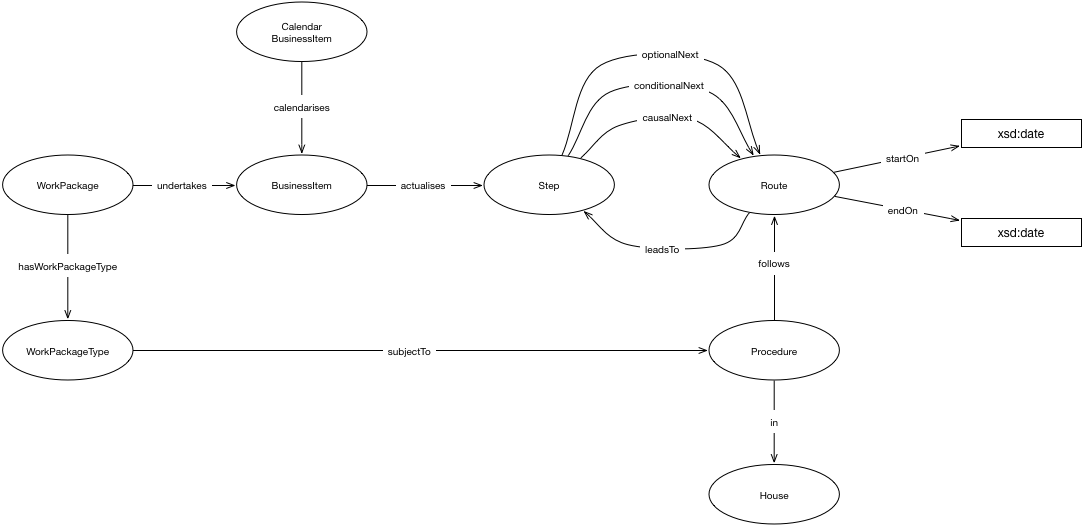
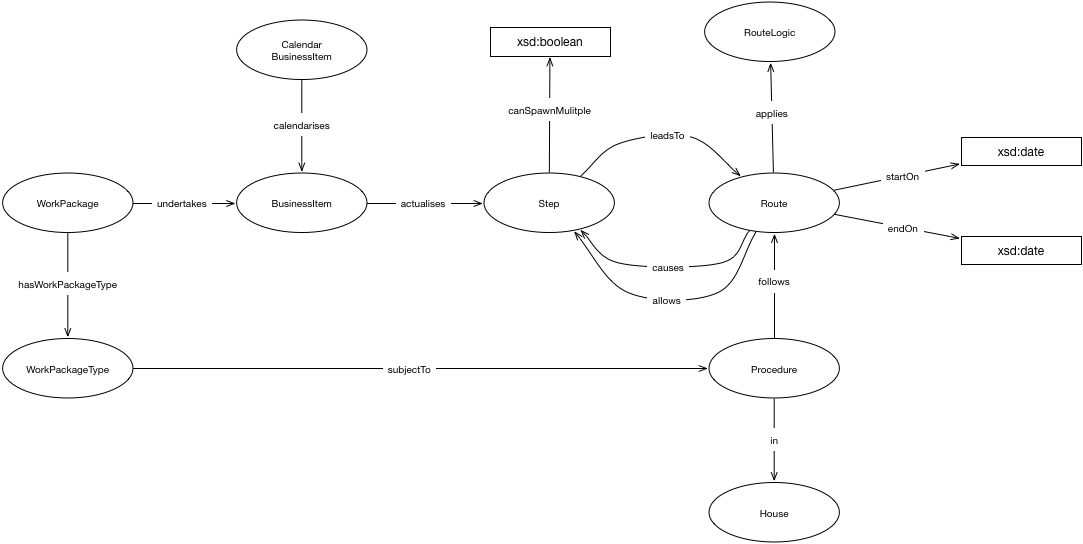
updated step <> route predicates, added logic class, added can spawn multiple property

diff --git a/procedure/procedure-ontology.html b/procedure/procedure-ontology.html
@@ -10,6 +10,9 @@
 
 
 
+
+
+
 		<link href="https://ukparliament.github.io/ontologies/assets/css.css" rel="stylesheet" type="text/css" />
 	</head>
 		<body>
@@ -35,6 +38,19 @@
 
 
 
-<div id="classes"><h2>Classes</h2><ul class="hlist"><li><a href="#d4e232" title="http://parliament.uk/ontologies/procedure/BusinessItem">BusinessItem</a></li><li><a href="#d4e243" title="http://parliament.uk/ontologies/procedure/CalendarBusinessItem">CalendarBusinessItem</a></li><li><a href="#d4e255" title="http://parliament.uk/ontologies/procedure/House">House</a></li><li><a href="#d4e266" title="http://parliament.uk/ontologies/procedure/Procedure">Procedure</a></li><li><a href="#d4e277" title="http://parliament.uk/ontologies/procedure/Route">Route</a></li><li><a href="#d4e289" title="http://parliament.uk/ontologies/procedure/Step">Step</a></li><li><a href="#d4e300" title="http://parliament.uk/ontologies/procedure/WorkPackage">WorkPackage</a></li><li><a href="#d4e311" title="http://parliament.uk/ontologies/procedure/WorkPackageType">WorkPackageType</a></li></ul><div id="d4e232" class="entity"><a name="http://parliament.uk/ontologies/procedure/BusinessItem"></a><h3>BusinessItem<sup title="class" class="type-c">c</sup><span class="backlink"> back to <a href="#toc">ToC</a> or <a href="#classes">Class ToC</a></span></h3><p><strong>IRI:</strong> http://parliament.uk/ontologies/procedure/BusinessItem</p><div class="comment"><span class="markdown">An item of parliamentary business.</span></div><dl class="description"><dt>is in domain of</dt><dd><a href="#d4e29" title="http://parliament.uk/ontologies/procedure/actualises">actualises</a><sup title="object property" class="type-op">op</sup></dd><dt>is in range of</dt><dd><a href="#d4e44" title="http://parliament.uk/ontologies/procedure/calendarises">calendarises</a><sup title="object property" class="type-op">op</sup>, <a href="#d4e182" title="http://parliament.uk/ontologies/procedure/undertakes">undertakes</a><sup title="object property" class="type-op">op</sup></dd></dl></div><div id="d4e243" class="entity"><a name="http://parliament.uk/ontologies/procedure/CalendarBusinessItem"></a><h3>CalendarBusinessItem<sup title="class" class="type-c">c</sup><span class="backlink"> back to <a href="#toc">ToC</a> or <a href="#classes">Class ToC</a></span></h3><p><strong>IRI:</strong> http://parliament.uk/ontologies/procedure/CalendarBusinessItem</p><div class="comment"><span class="markdown">An item of parliamentary business which has been timetabled onto a calendar.</span></div><dl class="description"><dt>is in domain of</dt><dd><a href="#d4e44" title="http://parliament.uk/ontologies/procedure/calendarises">calendarises</a><sup title="object property" class="type-op">op</sup></dd></dl></div><div id="d4e255" class="entity"><a name="http://parliament.uk/ontologies/procedure/House"></a><h3>House<sup title="class" class="type-c">c</sup><span class="backlink"> back to <a href="#toc">ToC</a> or <a href="#classes">Class ToC</a></span></h3><p><strong>IRI:</strong> http://parliament.uk/ontologies/procedure/House</p><div class="comment"><span class="markdown">A parliamentary House e.g. the House of Lords.</span></div><dl class="description"><dt>is in range of</dt><dd><a href="#d4e121" title="http://parliament.uk/ontologies/procedure/in">in</a><sup title="object property" class="type-op">op</sup></dd></dl></div><div id="d4e266" class="entity"><a name="http://parliament.uk/ontologies/procedure/Procedure"></a><h3>Procedure<sup title="class" class="type-c">c</sup><span class="backlink"> back to <a href="#toc">ToC</a> or <a href="#classes">Class ToC</a></span></h3><p><strong>IRI:</strong> http://parliament.uk/ontologies/procedure/Procedure</p><div class="comment"><span class="markdown">A parliamentary procedure in a particular House. Examples might be the passage of an affirmative SI in the House of Commons, the passage of a public bill in the House of Lords etc.</span></div><dl class="description"><dt>is in domain of</dt><dd><a href="#d4e90" title="http://parliament.uk/ontologies/procedure/follows">follows</a><sup title="object property" class="type-op">op</sup>, <a href="#d4e121" title="http://parliament.uk/ontologies/procedure/in">in</a><sup title="object property" class="type-op">op</sup></dd><dt>is in range of</dt><dd><a href="#d4e167" title="http://parliament.uk/ontologies/procedure/subjectTo">subjectTo</a><sup title="object property" class="type-op">op</sup></dd></dl></div><div id="d4e277" class="entity"><a name="http://parliament.uk/ontologies/procedure/Route"></a><h3>Route<sup title="class" class="type-c">c</sup><span class="backlink"> back to <a href="#toc">ToC</a> or <a href="#classes">Class ToC</a></span></h3><p><strong>IRI:</strong> http://parliament.uk/ontologies/procedure/Route</p><div class="comment"><span class="markdown">Ties a preceding step to a following step depending on applicable procedure, point in time and conditional inputs from the preceding step.</span></div><dl class="description"><dt>is in domain of</dt><dd><a href="#d4e199" title="http://parliament.uk/ontologies/procedure/endOn">endOn</a><sup title="data property" class="type-dp">dp</sup>, <a href="#d4e136" title="http://parliament.uk/ontologies/procedure/leadsTo">leadsTo</a><sup title="object property" class="type-op">op</sup>, <a href="#d4e215" title="http://parliament.uk/ontologies/procedure/startOn">startOn</a><sup title="data property" class="type-dp">dp</sup></dd><dt>is in range of</dt><dd><a href="#d4e59" title="http://parliament.uk/ontologies/procedure/causalNext">causalNext</a><sup title="object property" class="type-op">op</sup>, <a href="#d4e75" title="http://parliament.uk/ontologies/procedure/conditionalNext">conditionalNext</a><sup title="object property" class="type-op">op</sup>, <a href="#d4e90" title="http://parliament.uk/ontologies/procedure/follows">follows</a><sup title="object property" class="type-op">op</sup>, <a href="#d4e151" title="http://parliament.uk/ontologies/procedure/optionalNext">optionalNext</a><sup title="object property" class="type-op">op</sup></dd></dl></div><div id="d4e289" class="entity"><a name="http://parliament.uk/ontologies/procedure/Step"></a><h3>Step<sup title="class" class="type-c">c</sup><span class="backlink"> back to <a href="#toc">ToC</a> or <a href="#classes">Class ToC</a></span></h3><p><strong>IRI:</strong> http://parliament.uk/ontologies/procedure/Step</p><div class="comment"><span class="markdown">A step in a process. May occur in one or many routes.</span></div><dl class="description"><dt>is in domain of</dt><dd><a href="#d4e59" title="http://parliament.uk/ontologies/procedure/causalNext">causalNext</a><sup title="object property" class="type-op">op</sup>, <a href="#d4e75" title="http://parliament.uk/ontologies/procedure/conditionalNext">conditionalNext</a><sup title="object property" class="type-op">op</sup>, <a href="#d4e151" title="http://parliament.uk/ontologies/procedure/optionalNext">optionalNext</a><sup title="object property" class="type-op">op</sup></dd><dt>is in range of</dt><dd><a href="#d4e29" title="http://parliament.uk/ontologies/procedure/actualises">actualises</a><sup title="object property" class="type-op">op</sup>, <a href="#d4e136" title="http://parliament.uk/ontologies/procedure/leadsTo">leadsTo</a><sup title="object property" class="type-op">op</sup></dd></dl></div><div id="d4e300" class="entity"><a name="http://parliament.uk/ontologies/procedure/WorkPackage"></a><h3>WorkPackage<sup title="class" class="type-c">c</sup><span class="backlink"> back to <a href="#toc">ToC</a> or <a href="#classes">Class ToC</a></span></h3><p><strong>IRI:</strong> http://parliament.uk/ontologies/procedure/WorkPackage</p><div class="comment"><span class="markdown">A package of work involving many individual business items. Might be the passage of a specific statutory instrument or the passage of a specific public bill etc.</span></div><dl class="description"><dt>is in domain of</dt><dd><a href="#d4e105" title="http://parliament.uk/ontologies/procedure/hasWorkPackageType">hasWorkPackageType</a><sup title="object property" class="type-op">op</sup>, <a href="#d4e182" title="http://parliament.uk/ontologies/procedure/undertakes">undertakes</a><sup title="object property" class="type-op">op</sup></dd></dl></div><div id="d4e311" class="entity"><a name="http://parliament.uk/ontologies/procedure/WorkPackageType"></a><h3>WorkPackageType<sup title="class" class="type-c">c</sup><span class="backlink"> back to <a href="#toc">ToC</a> or <a href="#classes">Class ToC</a></span></h3><p><strong>IRI:</strong> http://parliament.uk/ontologies/procedure/WorkPackageType</p><div class="comment"><span class="markdown">A type of a work package. Might be the passage of affirmative statutory instruments or the passage of public bills etc.</span></div><dl class="description"><dt>is in domain of</dt><dd><a href="#d4e167" title="http://parliament.uk/ontologies/procedure/subjectTo">subjectTo</a><sup title="object property" class="type-op">op</sup></dd><dt>is in range of</dt><dd><a href="#d4e105" title="http://parliament.uk/ontologies/procedure/hasWorkPackageType">hasWorkPackageType</a><sup title="object property" class="type-op">op</sup></dd></dl></div></div><div id="objectproperties"><h2>Object Properties</h2><ul class="hlist"><li><a href="#d4e29" title="http://parliament.uk/ontologies/procedure/actualises">actualises</a></li><li><a href="#d4e44" title="http://parliament.uk/ontologies/procedure/calendarises">calendarises</a></li><li><a href="#d4e59" title="http://parliament.uk/ontologies/procedure/causalNext">causalNext</a></li><li><a href="#d4e75" title="http://parliament.uk/ontologies/procedure/conditionalNext">conditionalNext</a></li><li><a href="#d4e90" title="http://parliament.uk/ontologies/procedure/follows">follows</a></li><li><a href="#d4e105" title="http://parliament.uk/ontologies/procedure/hasWorkPackageType">hasWorkPackageType</a></li><li><a href="#d4e121" title="http://parliament.uk/ontologies/procedure/in">in</a></li><li><a href="#d4e136" title="http://parliament.uk/ontologies/procedure/leadsTo">leadsTo</a></li><li><a href="#d4e151" title="http://parliament.uk/ontologies/procedure/optionalNext">optionalNext</a></li><li><a href="#d4e167" title="http://parliament.uk/ontologies/procedure/subjectTo">subjectTo</a></li><li><a href="#d4e182" title="http://parliament.uk/ontologies/procedure/undertakes">undertakes</a></li></ul><div id="d4e29" class="entity"><a name="http://parliament.uk/ontologies/procedure/actualises"></a><h3>actualises<sup title="object property" class="type-op">op</sup><span class="backlink"> back to <a href="#toc">ToC</a> or <a href="#objectproperties">Object Property ToC</a></span></h3><p><strong>IRI:</strong> http://parliament.uk/ontologies/procedure/actualises</p><div class="comment"><span class="markdown">Relates a business item to a step in a procedure.</span></div><div class="description"><dl><dt>has domain</dt><dd><a href="#d4e232" title="http://parliament.uk/ontologies/procedure/BusinessItem">BusinessItem</a><sup title="class" class="type-c">c</sup></dd><dt>has range</dt><dd><a href="#d4e289" title="http://parliament.uk/ontologies/procedure/Step">Step</a><sup title="class" class="type-c">c</sup></dd></dl></div></div><div id="d4e44" class="entity"><a name="http://parliament.uk/ontologies/procedure/calendarises"></a><h3>calendarises<sup title="object property" class="type-op">op</sup><span class="backlink"> back to <a href="#toc">ToC</a> or <a href="#objectproperties">Object Property ToC</a></span></h3><p><strong>IRI:</strong> http://parliament.uk/ontologies/procedure/calendarises</p><div class="comment"><span class="markdown">Relates a calender business item to a business item.</span></div><div class="description"><dl><dt>has domain</dt><dd><a href="#d4e243" title="http://parliament.uk/ontologies/procedure/CalendarBusinessItem">CalendarBusinessItem</a><sup title="class" class="type-c">c</sup></dd><dt>has range</dt><dd><a href="#d4e232" title="http://parliament.uk/ontologies/procedure/BusinessItem">BusinessItem</a><sup title="class" class="type-c">c</sup></dd></dl></div></div><div id="d4e59" class="entity"><a name="http://parliament.uk/ontologies/procedure/causalNext"></a><h3>causalNext<sup title="object property" class="type-op">op</sup><span class="backlink"> back to <a href="#toc">ToC</a> or <a href="#objectproperties">Object Property ToC</a></span></h3><p><strong>IRI:</strong> http://parliament.uk/ontologies/procedure/causalNext</p><div class="comment"><span class="markdown">Relates a preceding step to a route where completion of the step directly causes the route to trigger the next step.</span></div><div class="description"><dl><dt>has domain</dt><dd><a href="#d4e289" title="http://parliament.uk/ontologies/procedure/Step">Step</a><sup title="class" class="type-c">c</sup></dd><dt>has range</dt><dd><a href="#d4e277" title="http://parliament.uk/ontologies/procedure/Route">Route</a><sup title="class" class="type-c">c</sup></dd></dl></div></div><div id="d4e75" class="entity"><a name="http://parliament.uk/ontologies/procedure/conditionalNext"></a><h3>conditionalNext<sup title="object property" class="type-op">op</sup><span class="backlink"> back to <a href="#toc">ToC</a> or <a href="#objectproperties">Object Property ToC</a></span></h3><p><strong>IRI:</strong> http://parliament.uk/ontologies/procedure/conditionalNext</p><div class="comment"><span class="markdown">Relates a preceding step to a route where completion of all steps marked conditional must happen before the route can trigger the next step.</span></div><div class="description"><dl><dt>has domain</dt><dd><a href="#d4e289" title="http://parliament.uk/ontologies/procedure/Step">Step</a><sup title="class" class="type-c">c</sup></dd><dt>has range</dt><dd><a href="#d4e277" title="http://parliament.uk/ontologies/procedure/Route">Route</a><sup title="class" class="type-c">c</sup></dd></dl></div></div><div id="d4e90" class="entity"><a name="http://parliament.uk/ontologies/procedure/follows"></a><h3>follows<sup title="object property" class="type-op">op</sup><span class="backlink"> back to <a href="#toc">ToC</a> or <a href="#objectproperties">Object Property ToC</a></span></h3><p><strong>IRI:</strong> http://parliament.uk/ontologies/procedure/follows</p><div class="comment"><span class="markdown">Relates a procedure to a route.</span></div><div class="description"><dl><dt>has domain</dt><dd><a href="#d4e266" title="http://parliament.uk/ontologies/procedure/Procedure">Procedure</a><sup title="class" class="type-c">c</sup></dd><dt>has range</dt><dd><a href="#d4e277" title="http://parliament.uk/ontologies/procedure/Route">Route</a><sup title="class" class="type-c">c</sup></dd></dl></div></div><div id="d4e105" class="entity"><a name="http://parliament.uk/ontologies/procedure/hasWorkPackageType"></a><h3>hasWorkPackageType<sup title="object property" class="type-op">op</sup><span class="backlink"> back to <a href="#toc">ToC</a> or <a href="#objectproperties">Object Property ToC</a></span></h3><p><strong>IRI:</strong> http://parliament.uk/ontologies/procedure/hasWorkPackageType</p><div class="comment"><span class="markdown">Relates a work package to the type of work being undertaken.</span></div><div class="description"><dl><dt>has domain</dt><dd><a href="#d4e300" title="http://parliament.uk/ontologies/procedure/WorkPackage">WorkPackage</a><sup title="class" class="type-c">c</sup></dd><dt>has range</dt><dd><a href="#d4e311" title="http://parliament.uk/ontologies/procedure/WorkPackageType">WorkPackageType</a><sup title="class" class="type-c">c</sup></dd></dl></div></div><div id="d4e121" class="entity"><a name="http://parliament.uk/ontologies/procedure/in"></a><h3>in<sup title="object property" class="type-op">op</sup><span class="backlink"> back to <a href="#toc">ToC</a> or <a href="#objectproperties">Object Property ToC</a></span></h3><p><strong>IRI:</strong> http://parliament.uk/ontologies/procedure/in</p><div class="comment"><span class="markdown">Relates a procedure to a House.</span></div><div class="description"><dl><dt>has domain</dt><dd><a href="#d4e266" title="http://parliament.uk/ontologies/procedure/Procedure">Procedure</a><sup title="class" class="type-c">c</sup></dd><dt>has range</dt><dd><a href="#d4e255" title="http://parliament.uk/ontologies/procedure/House">House</a><sup title="class" class="type-c">c</sup></dd></dl></div></div><div id="d4e136" class="entity"><a name="http://parliament.uk/ontologies/procedure/leadsTo"></a><h3>leadsTo<sup title="object property" class="type-op">op</sup><span class="backlink"> back to <a href="#toc">ToC</a> or <a href="#objectproperties">Object Property ToC</a></span></h3><p><strong>IRI:</strong> http://parliament.uk/ontologies/procedure/leadsTo</p><div class="comment"><span class="markdown">Relates a route to a following step.</span></div><div class="description"><dl><dt>has domain</dt><dd><a href="#d4e277" title="http://parliament.uk/ontologies/procedure/Route">Route</a><sup title="class" class="type-c">c</sup></dd><dt>has range</dt><dd><a href="#d4e289" title="http://parliament.uk/ontologies/procedure/Step">Step</a><sup title="class" class="type-c">c</sup></dd></dl></div></div><div id="d4e151" class="entity"><a name="http://parliament.uk/ontologies/procedure/optionalNext"></a><h3>optionalNext<sup title="object property" class="type-op">op</sup><span class="backlink"> back to <a href="#toc">ToC</a> or <a href="#objectproperties">Object Property ToC</a></span></h3><p><strong>IRI:</strong> http://parliament.uk/ontologies/procedure/optionalNext</p><div class="comment"><span class="markdown">Relates a preceding step to a route where completion of the step allows the next step to happen, but does not cause it to happen.</span></div><div class="description"><dl><dt>has domain</dt><dd><a href="#d4e289" title="http://parliament.uk/ontologies/procedure/Step">Step</a><sup title="class" class="type-c">c</sup></dd><dt>has range</dt><dd><a href="#d4e277" title="http://parliament.uk/ontologies/procedure/Route">Route</a><sup title="class" class="type-c">c</sup></dd></dl></div></div><div id="d4e167" class="entity"><a name="http://parliament.uk/ontologies/procedure/subjectTo"></a><h3>subjectTo<sup title="object property" class="type-op">op</sup><span class="backlink"> back to <a href="#toc">ToC</a> or <a href="#objectproperties">Object Property ToC</a></span></h3><p><strong>IRI:</strong> http://parliament.uk/ontologies/procedure/subjectTo</p><div class="comment"><span class="markdown">Relates a work package type to the procedure it is subject to.</span></div><div class="description"><dl><dt>has domain</dt><dd><a href="#d4e311" title="http://parliament.uk/ontologies/procedure/WorkPackageType">WorkPackageType</a><sup title="class" class="type-c">c</sup></dd><dt>has range</dt><dd><a href="#d4e266" title="http://parliament.uk/ontologies/procedure/Procedure">Procedure</a><sup title="class" class="type-c">c</sup></dd></dl></div></div><div id="d4e182" class="entity"><a name="http://parliament.uk/ontologies/procedure/undertakes"></a><h3>undertakes<sup title="object property" class="type-op">op</sup><span class="backlink"> back to <a href="#toc">ToC</a> or <a href="#objectproperties">Object Property ToC</a></span></h3><p><strong>IRI:</strong> http://parliament.uk/ontologies/procedure/undertakes</p><div class="comment"><span class="markdown">Relates a work package to the individual business items that comprise it.</span></div><div class="description"><dl><dt>has domain</dt><dd><a href="#d4e300" title="http://parliament.uk/ontologies/procedure/WorkPackage">WorkPackage</a><sup title="class" class="type-c">c</sup></dd><dt>has range</dt><dd><a href="#d4e232" title="http://parliament.uk/ontologies/procedure/BusinessItem">BusinessItem</a><sup title="class" class="type-c">c</sup></dd></dl></div></div></div><div id="dataproperties"><h2>Data Properties</h2><ul class="hlist"><li><a href="#d4e199" title="http://parliament.uk/ontologies/procedure/endOn">endOn</a></li><li><a href="#d4e215" title="http://parliament.uk/ontologies/procedure/startOn">startOn</a></li></ul><div id="d4e199" class="entity"><a name="http://parliament.uk/ontologies/procedure/endOn"></a><h3>endOn<sup title="data property" class="type-dp">dp</sup><span class="backlink"> back to <a href="#toc">ToC</a> or <a href="#dataproperties">Data Property ToC</a></span></h3><p><strong>IRI:</strong> http://parliament.uk/ontologies/procedure/endOn</p><div class="comment"><span class="markdown">Relates a route to an end date. Allows routes to change over time to reflect changes to procedure. Borrowed from the core ontology.</span></div><div class="description"><dl><dt>has domain</dt><dd><a href="#d4e277" title="http://parliament.uk/ontologies/procedure/Route">Route</a><sup title="class" class="type-c">c</sup></dd><dt>has range</dt><dd><span class="dotted" title="http://www.w3.org/2001/XMLSchema#date">date</span></dd></dl></div></div><div id="d4e215" class="entity"><a name="http://parliament.uk/ontologies/procedure/startOn"></a><h3>startOn<sup title="data property" class="type-dp">dp</sup><span class="backlink"> back to <a href="#toc">ToC</a> or <a href="#dataproperties">Data Property ToC</a></span></h3><p><strong>IRI:</strong> http://parliament.uk/ontologies/procedure/startOn</p><div class="comment"><span class="markdown">Relates a route to a start date. Allows routes to change over time to reflect changes to procedure. Borrowed from the core ontology.</span></div><div class="description"><dl><dt>has domain</dt><dd><a href="#d4e277" title="http://parliament.uk/ontologies/procedure/Route">Route</a><sup title="class" class="type-c">c</sup></dd><dt>has range</dt><dd><span class="dotted" title="http://www.w3.org/2001/XMLSchema#date">date</span></dd></dl></div></div></div><div id="namespacedeclarations"><h2>Namespace Declarations <span class="backlink"> back to <a href="#toc">ToC</a></span></h2><dl><dt><em>default namespace</em></dt><dd>http://parliament.uk/ontologies/laying/</dd><dt>owl</dt><dd>http://www.w3.org/2002/07/owl#</dd><dt>procedure</dt><dd>http://parliament.uk/ontologies/procedure/</dd><dt>rdf</dt><dd>http://www.w3.org/1999/02/22-rdf-syntax-ns#</dd><dt>rdfs</dt><dd>http://www.w3.org/2000/01/rdf-schema#</dd><dt>terms</dt><dd>http://purl.org/dc/terms/</dd><dt>xsd</dt><dd>http://www.w3.org/2001/XMLSchema#</dd></dl></div><p class="endnote">This HTML document was obtained by processing the OWL ontology source code through <a href="http://www.essepuntato.it/lode">LODE</a>, <em>Live OWL Documentation Environment</em>, developed by <a href="http://www.essepuntato.it">Silvio Peroni</a>.</p></body></html>
+
+
+
+
+
+
+
+
+
+
+
+
+
+<div id="classes"><h2>Classes</h2><ul class="hlist"><li><a href="#d4e247" title="http://parliament.uk/ontologies/procedure/BusinessItem">BusinessItem</a></li><li><a href="#d4e259" title="http://parliament.uk/ontologies/procedure/CalendarBusinessItem">CalendarBusinessItem</a></li><li><a href="#d4e270" title="http://parliament.uk/ontologies/procedure/House">House</a></li><li><a href="#d4e281" title="http://parliament.uk/ontologies/procedure/Procedure">Procedure</a></li><li><a href="#d4e293" title="http://parliament.uk/ontologies/procedure/Route">Route</a></li><li><a href="#d4e304" title="http://parliament.uk/ontologies/procedure/RouteLogic">RouteLogic</a></li><li><a href="#d4e315" title="http://parliament.uk/ontologies/procedure/Step">Step</a></li><li><a href="#d4e327" title="http://parliament.uk/ontologies/procedure/WorkPackage">WorkPackage</a></li><li><a href="#d4e338" title="http://parliament.uk/ontologies/procedure/WorkPackageType">WorkPackageType</a></li></ul><div id="d4e247" class="entity"><a name="http://parliament.uk/ontologies/procedure/BusinessItem"></a><h3>BusinessItem<sup title="class" class="type-c">c</sup><span class="backlink"> back to <a href="#toc">ToC</a> or <a href="#classes">Class ToC</a></span></h3><p><strong>IRI:</strong> http://parliament.uk/ontologies/procedure/BusinessItem</p><div class="comment"><span class="markdown">An item of parliamentary business.</span></div><dl class="description"><dt>is in domain of</dt><dd><a href="#d4e29" title="http://parliament.uk/ontologies/procedure/actualises">actualises</a><sup title="object property" class="type-op">op</sup></dd><dt>is in range of</dt><dd><a href="#d4e75" title="http://parliament.uk/ontologies/procedure/calendarises">calendarises</a><sup title="object property" class="type-op">op</sup>, <a href="#d4e182" title="http://parliament.uk/ontologies/procedure/undertakes">undertakes</a><sup title="object property" class="type-op">op</sup></dd></dl></div><div id="d4e259" class="entity"><a name="http://parliament.uk/ontologies/procedure/CalendarBusinessItem"></a><h3>CalendarBusinessItem<sup title="class" class="type-c">c</sup><span class="backlink"> back to <a href="#toc">ToC</a> or <a href="#classes">Class ToC</a></span></h3><p><strong>IRI:</strong> http://parliament.uk/ontologies/procedure/CalendarBusinessItem</p><div class="comment"><span class="markdown">An item of parliamentary business which has been timetabled onto a calendar.</span></div><dl class="description"><dt>is in domain of</dt><dd><a href="#d4e75" title="http://parliament.uk/ontologies/procedure/calendarises">calendarises</a><sup title="object property" class="type-op">op</sup></dd></dl></div><div id="d4e270" class="entity"><a name="http://parliament.uk/ontologies/procedure/House"></a><h3>House<sup title="class" class="type-c">c</sup><span class="backlink"> back to <a href="#toc">ToC</a> or <a href="#classes">Class ToC</a></span></h3><p><strong>IRI:</strong> http://parliament.uk/ontologies/procedure/House</p><div class="comment"><span class="markdown">A parliamentary House e.g. the House of Lords.</span></div><dl class="description"><dt>is in range of</dt><dd><a href="#d4e136" title="http://parliament.uk/ontologies/procedure/in">in</a><sup title="object property" class="type-op">op</sup></dd></dl></div><div id="d4e281" class="entity"><a name="http://parliament.uk/ontologies/procedure/Procedure"></a><h3>Procedure<sup title="class" class="type-c">c</sup><span class="backlink"> back to <a href="#toc">ToC</a> or <a href="#classes">Class ToC</a></span></h3><p><strong>IRI:</strong> http://parliament.uk/ontologies/procedure/Procedure</p><div class="comment"><span class="markdown">A parliamentary procedure in a particular House. Examples might be the passage of an affirmative SI in the House of Commons, the passage of a public bill in the House of Lords etc.</span></div><dl class="description"><dt>is in domain of</dt><dd><a href="#d4e105" title="http://parliament.uk/ontologies/procedure/follows">follows</a><sup title="object property" class="type-op">op</sup>, <a href="#d4e136" title="http://parliament.uk/ontologies/procedure/in">in</a><sup title="object property" class="type-op">op</sup></dd><dt>is in range of</dt><dd><a href="#d4e167" title="http://parliament.uk/ontologies/procedure/subjectTo">subjectTo</a><sup title="object property" class="type-op">op</sup></dd></dl></div><div id="d4e293" class="entity"><a name="http://parliament.uk/ontologies/procedure/Route"></a><h3>Route<sup title="class" class="type-c">c</sup><span class="backlink"> back to <a href="#toc">ToC</a> or <a href="#classes">Class ToC</a></span></h3><p><strong>IRI:</strong> http://parliament.uk/ontologies/procedure/Route</p><div class="comment"><span class="markdown">Ties a preceding step to a following step depending on applicable procedure, point in time and conditional inputs from the preceding step.</span></div><dl class="description"><dt>is in domain of</dt><dd><a href="#d4e44" title="http://parliament.uk/ontologies/procedure/allows">allows</a><sup title="object property" class="type-op">op</sup>, <a href="#d4e59" title="http://parliament.uk/ontologies/procedure/applies">applies</a><sup title="object property" class="type-op">op</sup>, <a href="#d4e90" title="http://parliament.uk/ontologies/procedure/causes">causes</a><sup title="object property" class="type-op">op</sup>, <a href="#d4e215" title="http://parliament.uk/ontologies/procedure/endOn">endOn</a><sup title="data property" class="type-dp">dp</sup>, <a href="#d4e230" title="http://parliament.uk/ontologies/procedure/startOn">startOn</a><sup title="data property" class="type-dp">dp</sup></dd><dt>is in range of</dt><dd><a href="#d4e105" title="http://parliament.uk/ontologies/procedure/follows">follows</a><sup title="object property" class="type-op">op</sup>, <a href="#d4e151" title="http://parliament.uk/ontologies/procedure/leadsTo">leadsTo</a><sup title="object property" class="type-op">op</sup></dd></dl></div><div id="d4e304" class="entity"><a name="http://parliament.uk/ontologies/procedure/RouteLogic"></a><h3>RouteLogic<sup title="class" class="type-c">c</sup><span class="backlink"> back to <a href="#toc">ToC</a> or <a href="#classes">Class ToC</a></span></h3><p><strong>IRI:</strong> http://parliament.uk/ontologies/procedure/RouteLogic</p><div class="comment"><span class="markdown">Works something like a logic gate. Route logic allows for the specification of the logic which determines a route's actions. Takes into account the completion of all preceding steps leading to the route and states whether all preceding steps must be completed (AND) or just some (OR).</span></div><dl class="description"><dt>is in range of</dt><dd><a href="#d4e59" title="http://parliament.uk/ontologies/procedure/applies">applies</a><sup title="object property" class="type-op">op</sup></dd></dl></div><div id="d4e315" class="entity"><a name="http://parliament.uk/ontologies/procedure/Step"></a><h3>Step<sup title="class" class="type-c">c</sup><span class="backlink"> back to <a href="#toc">ToC</a> or <a href="#classes">Class ToC</a></span></h3><p><strong>IRI:</strong> http://parliament.uk/ontologies/procedure/Step</p><div class="comment"><span class="markdown">A step in a process. May occur in one or many routes.</span></div><dl class="description"><dt>is in domain of</dt><dd><a href="#d4e199" title="http://parliament.uk/ontologies/procedure/canSpawnMultiple">canSpawnMultiple</a><sup title="data property" class="type-dp">dp</sup>, <a href="#d4e151" title="http://parliament.uk/ontologies/procedure/leadsTo">leadsTo</a><sup title="object property" class="type-op">op</sup></dd><dt>is in range of</dt><dd><a href="#d4e29" title="http://parliament.uk/ontologies/procedure/actualises">actualises</a><sup title="object property" class="type-op">op</sup>, <a href="#d4e44" title="http://parliament.uk/ontologies/procedure/allows">allows</a><sup title="object property" class="type-op">op</sup>, <a href="#d4e90" title="http://parliament.uk/ontologies/procedure/causes">causes</a><sup title="object property" class="type-op">op</sup></dd></dl></div><div id="d4e327" class="entity"><a name="http://parliament.uk/ontologies/procedure/WorkPackage"></a><h3>WorkPackage<sup title="class" class="type-c">c</sup><span class="backlink"> back to <a href="#toc">ToC</a> or <a href="#classes">Class ToC</a></span></h3><p><strong>IRI:</strong> http://parliament.uk/ontologies/procedure/WorkPackage</p><div class="comment"><span class="markdown">A package of work involving many individual business items. Might be the passage of a specific statutory instrument or the passage of a specific public bill etc.</span></div><dl class="description"><dt>is in domain of</dt><dd><a href="#d4e121" title="http://parliament.uk/ontologies/procedure/hasWorkPackageType">hasWorkPackageType</a><sup title="object property" class="type-op">op</sup>, <a href="#d4e182" title="http://parliament.uk/ontologies/procedure/undertakes">undertakes</a><sup title="object property" class="type-op">op</sup></dd></dl></div><div id="d4e338" class="entity"><a name="http://parliament.uk/ontologies/procedure/WorkPackageType"></a><h3>WorkPackageType<sup title="class" class="type-c">c</sup><span class="backlink"> back to <a href="#toc">ToC</a> or <a href="#classes">Class ToC</a></span></h3><p><strong>IRI:</strong> http://parliament.uk/ontologies/procedure/WorkPackageType</p><div class="comment"><span class="markdown">A type of a work package. Might be the passage of affirmative statutory instruments or the passage of public bills etc.</span></div><dl class="description"><dt>is in domain of</dt><dd><a href="#d4e167" title="http://parliament.uk/ontologies/procedure/subjectTo">subjectTo</a><sup title="object property" class="type-op">op</sup></dd><dt>is in range of</dt><dd><a href="#d4e121" title="http://parliament.uk/ontologies/procedure/hasWorkPackageType">hasWorkPackageType</a><sup title="object property" class="type-op">op</sup></dd></dl></div></div><div id="objectproperties"><h2>Object Properties</h2><ul class="hlist"><li><a href="#d4e29" title="http://parliament.uk/ontologies/procedure/actualises">actualises</a></li><li><a href="#d4e44" title="http://parliament.uk/ontologies/procedure/allows">allows</a></li><li><a href="#d4e59" title="http://parliament.uk/ontologies/procedure/applies">applies</a></li><li><a href="#d4e75" title="http://parliament.uk/ontologies/procedure/calendarises">calendarises</a></li><li><a href="#d4e90" title="http://parliament.uk/ontologies/procedure/causes">causes</a></li><li><a href="#d4e105" title="http://parliament.uk/ontologies/procedure/follows">follows</a></li><li><a href="#d4e121" title="http://parliament.uk/ontologies/procedure/hasWorkPackageType">hasWorkPackageType</a></li><li><a href="#d4e136" title="http://parliament.uk/ontologies/procedure/in">in</a></li><li><a href="#d4e151" title="http://parliament.uk/ontologies/procedure/leadsTo">leadsTo</a></li><li><a href="#d4e167" title="http://parliament.uk/ontologies/procedure/subjectTo">subjectTo</a></li><li><a href="#d4e182" title="http://parliament.uk/ontologies/procedure/undertakes">undertakes</a></li></ul><div id="d4e29" class="entity"><a name="http://parliament.uk/ontologies/procedure/actualises"></a><h3>actualises<sup title="object property" class="type-op">op</sup><span class="backlink"> back to <a href="#toc">ToC</a> or <a href="#objectproperties">Object Property ToC</a></span></h3><p><strong>IRI:</strong> http://parliament.uk/ontologies/procedure/actualises</p><div class="comment"><span class="markdown">Relates a business item to a step in a procedure.</span></div><div class="description"><dl><dt>has domain</dt><dd><a href="#d4e247" title="http://parliament.uk/ontologies/procedure/BusinessItem">BusinessItem</a><sup title="class" class="type-c">c</sup></dd><dt>has range</dt><dd><a href="#d4e315" title="http://parliament.uk/ontologies/procedure/Step">Step</a><sup title="class" class="type-c">c</sup></dd></dl></div></div><div id="d4e44" class="entity"><a name="http://parliament.uk/ontologies/procedure/allows"></a><h3>allows<sup title="object property" class="type-op">op</sup><span class="backlink"> back to <a href="#toc">ToC</a> or <a href="#objectproperties">Object Property ToC</a></span></h3><p><strong>IRI:</strong> http://parliament.uk/ontologies/procedure/allows</p><div class="comment"><span class="markdown">Relates a route to a following step where completion of the preceding step(s) allows the next step to happen, but does not cause it to happen.</span></div><div class="description"><dl><dt>has domain</dt><dd><a href="#d4e293" title="http://parliament.uk/ontologies/procedure/Route">Route</a><sup title="class" class="type-c">c</sup></dd><dt>has range</dt><dd><a href="#d4e315" title="http://parliament.uk/ontologies/procedure/Step">Step</a><sup title="class" class="type-c">c</sup></dd></dl></div></div><div id="d4e59" class="entity"><a name="http://parliament.uk/ontologies/procedure/applies"></a><h3>applies<sup title="object property" class="type-op">op</sup><span class="backlink"> back to <a href="#toc">ToC</a> or <a href="#objectproperties">Object Property ToC</a></span></h3><p><strong>IRI:</strong> http://parliament.uk/ontologies/procedure/applies</p><div class="comment"><span class="markdown">Relates a route to the route logic applied.</span></div><div class="description"><dl><dt>has domain</dt><dd><a href="#d4e293" title="http://parliament.uk/ontologies/procedure/Route">Route</a><sup title="class" class="type-c">c</sup></dd><dt>has range</dt><dd><a href="#d4e304" title="http://parliament.uk/ontologies/procedure/RouteLogic">RouteLogic</a><sup title="class" class="type-c">c</sup></dd></dl></div></div><div id="d4e75" class="entity"><a name="http://parliament.uk/ontologies/procedure/calendarises"></a><h3>calendarises<sup title="object property" class="type-op">op</sup><span class="backlink"> back to <a href="#toc">ToC</a> or <a href="#objectproperties">Object Property ToC</a></span></h3><p><strong>IRI:</strong> http://parliament.uk/ontologies/procedure/calendarises</p><div class="comment"><span class="markdown">Relates a calender business item to a business item.</span></div><div class="description"><dl><dt>has domain</dt><dd><a href="#d4e259" title="http://parliament.uk/ontologies/procedure/CalendarBusinessItem">CalendarBusinessItem</a><sup title="class" class="type-c">c</sup></dd><dt>has range</dt><dd><a href="#d4e247" title="http://parliament.uk/ontologies/procedure/BusinessItem">BusinessItem</a><sup title="class" class="type-c">c</sup></dd></dl></div></div><div id="d4e90" class="entity"><a name="http://parliament.uk/ontologies/procedure/causes"></a><h3>causes<sup title="object property" class="type-op">op</sup><span class="backlink"> back to <a href="#toc">ToC</a> or <a href="#objectproperties">Object Property ToC</a></span></h3><p><strong>IRI:</strong> http://parliament.uk/ontologies/procedure/causes</p><div class="comment"><span class="markdown">Relates a route to a following step where completion of the preceding step(s) directly causes the route to trigger the next step.</span></div><div class="description"><dl><dt>has domain</dt><dd><a href="#d4e293" title="http://parliament.uk/ontologies/procedure/Route">Route</a><sup title="class" class="type-c">c</sup></dd><dt>has range</dt><dd><a href="#d4e315" title="http://parliament.uk/ontologies/procedure/Step">Step</a><sup title="class" class="type-c">c</sup></dd></dl></div></div><div id="d4e105" class="entity"><a name="http://parliament.uk/ontologies/procedure/follows"></a><h3>follows<sup title="object property" class="type-op">op</sup><span class="backlink"> back to <a href="#toc">ToC</a> or <a href="#objectproperties">Object Property ToC</a></span></h3><p><strong>IRI:</strong> http://parliament.uk/ontologies/procedure/follows</p><div class="comment"><span class="markdown">Relates a procedure to a route.</span></div><div class="description"><dl><dt>has domain</dt><dd><a href="#d4e281" title="http://parliament.uk/ontologies/procedure/Procedure">Procedure</a><sup title="class" class="type-c">c</sup></dd><dt>has range</dt><dd><a href="#d4e293" title="http://parliament.uk/ontologies/procedure/Route">Route</a><sup title="class" class="type-c">c</sup></dd></dl></div></div><div id="d4e121" class="entity"><a name="http://parliament.uk/ontologies/procedure/hasWorkPackageType"></a><h3>hasWorkPackageType<sup title="object property" class="type-op">op</sup><span class="backlink"> back to <a href="#toc">ToC</a> or <a href="#objectproperties">Object Property ToC</a></span></h3><p><strong>IRI:</strong> http://parliament.uk/ontologies/procedure/hasWorkPackageType</p><div class="comment"><span class="markdown">Relates a work package to the type of work being undertaken.</span></div><div class="description"><dl><dt>has domain</dt><dd><a href="#d4e327" title="http://parliament.uk/ontologies/procedure/WorkPackage">WorkPackage</a><sup title="class" class="type-c">c</sup></dd><dt>has range</dt><dd><a href="#d4e338" title="http://parliament.uk/ontologies/procedure/WorkPackageType">WorkPackageType</a><sup title="class" class="type-c">c</sup></dd></dl></div></div><div id="d4e136" class="entity"><a name="http://parliament.uk/ontologies/procedure/in"></a><h3>in<sup title="object property" class="type-op">op</sup><span class="backlink"> back to <a href="#toc">ToC</a> or <a href="#objectproperties">Object Property ToC</a></span></h3><p><strong>IRI:</strong> http://parliament.uk/ontologies/procedure/in</p><div class="comment"><span class="markdown">Relates a procedure to a House.</span></div><div class="description"><dl><dt>has domain</dt><dd><a href="#d4e281" title="http://parliament.uk/ontologies/procedure/Procedure">Procedure</a><sup title="class" class="type-c">c</sup></dd><dt>has range</dt><dd><a href="#d4e270" title="http://parliament.uk/ontologies/procedure/House">House</a><sup title="class" class="type-c">c</sup></dd></dl></div></div><div id="d4e151" class="entity"><a name="http://parliament.uk/ontologies/procedure/leadsTo"></a><h3>leadsTo<sup title="object property" class="type-op">op</sup><span class="backlink"> back to <a href="#toc">ToC</a> or <a href="#objectproperties">Object Property ToC</a></span></h3><p><strong>IRI:</strong> http://parliament.uk/ontologies/procedure/leadsTo</p><div class="comment"><span class="markdown">Relates a step to a following route.</span></div><div class="description"><dl><dt>has domain</dt><dd><a href="#d4e315" title="http://parliament.uk/ontologies/procedure/Step">Step</a><sup title="class" class="type-c">c</sup></dd><dt>has range</dt><dd><a href="#d4e293" title="http://parliament.uk/ontologies/procedure/Route">Route</a><sup title="class" class="type-c">c</sup></dd></dl></div></div><div id="d4e167" class="entity"><a name="http://parliament.uk/ontologies/procedure/subjectTo"></a><h3>subjectTo<sup title="object property" class="type-op">op</sup><span class="backlink"> back to <a href="#toc">ToC</a> or <a href="#objectproperties">Object Property ToC</a></span></h3><p><strong>IRI:</strong> http://parliament.uk/ontologies/procedure/subjectTo</p><div class="comment"><span class="markdown">Relates a work package type to the procedure it is subject to.</span></div><div class="description"><dl><dt>has domain</dt><dd><a href="#d4e338" title="http://parliament.uk/ontologies/procedure/WorkPackageType">WorkPackageType</a><sup title="class" class="type-c">c</sup></dd><dt>has range</dt><dd><a href="#d4e281" title="http://parliament.uk/ontologies/procedure/Procedure">Procedure</a><sup title="class" class="type-c">c</sup></dd></dl></div></div><div id="d4e182" class="entity"><a name="http://parliament.uk/ontologies/procedure/undertakes"></a><h3>undertakes<sup title="object property" class="type-op">op</sup><span class="backlink"> back to <a href="#toc">ToC</a> or <a href="#objectproperties">Object Property ToC</a></span></h3><p><strong>IRI:</strong> http://parliament.uk/ontologies/procedure/undertakes</p><div class="comment"><span class="markdown">Relates a work package to the individual business items that comprise it.</span></div><div class="description"><dl><dt>has domain</dt><dd><a href="#d4e327" title="http://parliament.uk/ontologies/procedure/WorkPackage">WorkPackage</a><sup title="class" class="type-c">c</sup></dd><dt>has range</dt><dd><a href="#d4e247" title="http://parliament.uk/ontologies/procedure/BusinessItem">BusinessItem</a><sup title="class" class="type-c">c</sup></dd></dl></div></div></div><div id="dataproperties"><h2>Data Properties</h2><ul class="hlist"><li><a href="#d4e199" title="http://parliament.uk/ontologies/procedure/canSpawnMultiple">canSpawnMultiple</a></li><li><a href="#d4e215" title="http://parliament.uk/ontologies/procedure/endOn">endOn</a></li><li><a href="#d4e230" title="http://parliament.uk/ontologies/procedure/startOn">startOn</a></li></ul><div id="d4e199" class="entity"><a name="http://parliament.uk/ontologies/procedure/canSpawnMultiple"></a><h3>canSpawnMultiple<sup title="data property" class="type-dp">dp</sup><span class="backlink"> back to <a href="#toc">ToC</a> or <a href="#dataproperties">Data Property ToC</a></span></h3><p><strong>IRI:</strong> http://parliament.uk/ontologies/procedure/canSpawnMultiple</p><div class="comment"><span class="markdown">Determines if multiple versions of the step can be spawned in parallel. Or just one.</span></div><div class="description"><dl><dt>has domain</dt><dd><a href="#d4e315" title="http://parliament.uk/ontologies/procedure/Step">Step</a><sup title="class" class="type-c">c</sup></dd><dt>has range</dt><dd><span class="dotted" title="http://www.w3.org/2001/XMLSchema#boolean">boolean</span></dd></dl></div></div><div id="d4e215" class="entity"><a name="http://parliament.uk/ontologies/procedure/endOn"></a><h3>endOn<sup title="data property" class="type-dp">dp</sup><span class="backlink"> back to <a href="#toc">ToC</a> or <a href="#dataproperties">Data Property ToC</a></span></h3><p><strong>IRI:</strong> http://parliament.uk/ontologies/procedure/endOn</p><div class="comment"><span class="markdown">Relates a route to an end date. Allows routes to change over time to reflect changes to procedure. Borrowed from the core ontology.</span></div><div class="description"><dl><dt>has domain</dt><dd><a href="#d4e293" title="http://parliament.uk/ontologies/procedure/Route">Route</a><sup title="class" class="type-c">c</sup></dd><dt>has range</dt><dd><span class="dotted" title="http://www.w3.org/2001/XMLSchema#date">date</span></dd></dl></div></div><div id="d4e230" class="entity"><a name="http://parliament.uk/ontologies/procedure/startOn"></a><h3>startOn<sup title="data property" class="type-dp">dp</sup><span class="backlink"> back to <a href="#toc">ToC</a> or <a href="#dataproperties">Data Property ToC</a></span></h3><p><strong>IRI:</strong> http://parliament.uk/ontologies/procedure/startOn</p><div class="comment"><span class="markdown">Relates a route to a start date. Allows routes to change over time to reflect changes to procedure. Borrowed from the core ontology.</span></div><div class="description"><dl><dt>has domain</dt><dd><a href="#d4e293" title="http://parliament.uk/ontologies/procedure/Route">Route</a><sup title="class" class="type-c">c</sup></dd><dt>has range</dt><dd><span class="dotted" title="http://www.w3.org/2001/XMLSchema#date">date</span></dd></dl></div></div></div><div id="namespacedeclarations"><h2>Namespace Declarations <span class="backlink"> back to <a href="#toc">ToC</a></span></h2><dl><dt><em>default namespace</em></dt><dd>http://parliament.uk/ontologies/laying/</dd><dt>owl</dt><dd>http://www.w3.org/2002/07/owl#</dd><dt>procedure</dt><dd>http://parliament.uk/ontologies/procedure/</dd><dt>rdf</dt><dd>http://www.w3.org/1999/02/22-rdf-syntax-ns#</dd><dt>rdfs</dt><dd>http://www.w3.org/2000/01/rdf-schema#</dd><dt>terms</dt><dd>http://purl.org/dc/terms/</dd><dt>xsd</dt><dd>http://www.w3.org/2001/XMLSchema#</dd></dl></div><p class="endnote">This HTML document was obtained by processing the OWL ontology source code through <a href="http://www.essepuntato.it/lode">LODE</a>, <em>Live OWL Documentation Environment</em>, developed by <a href="http://www.essepuntato.it">Silvio Peroni</a>.</p></body></html>
 
 
